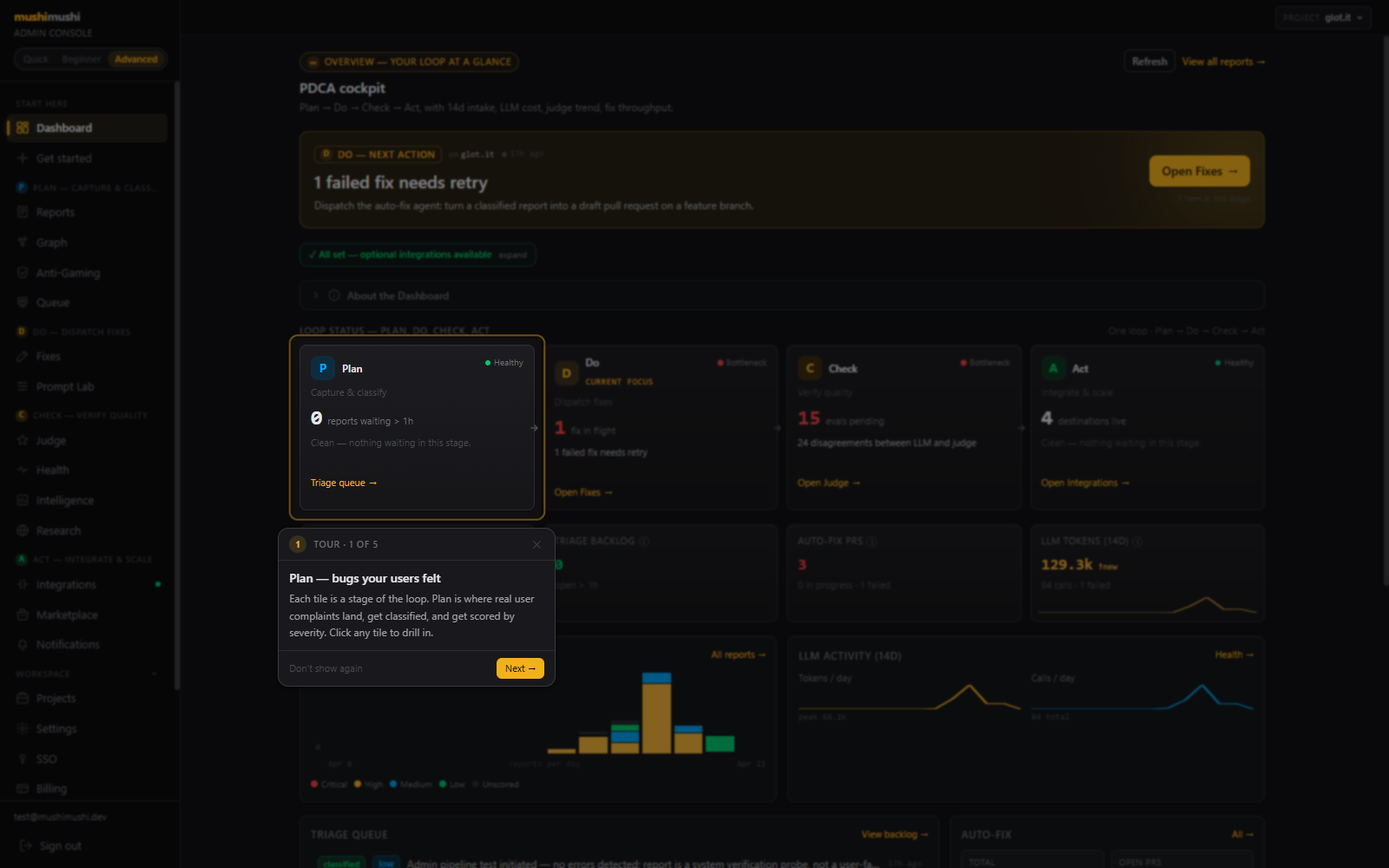
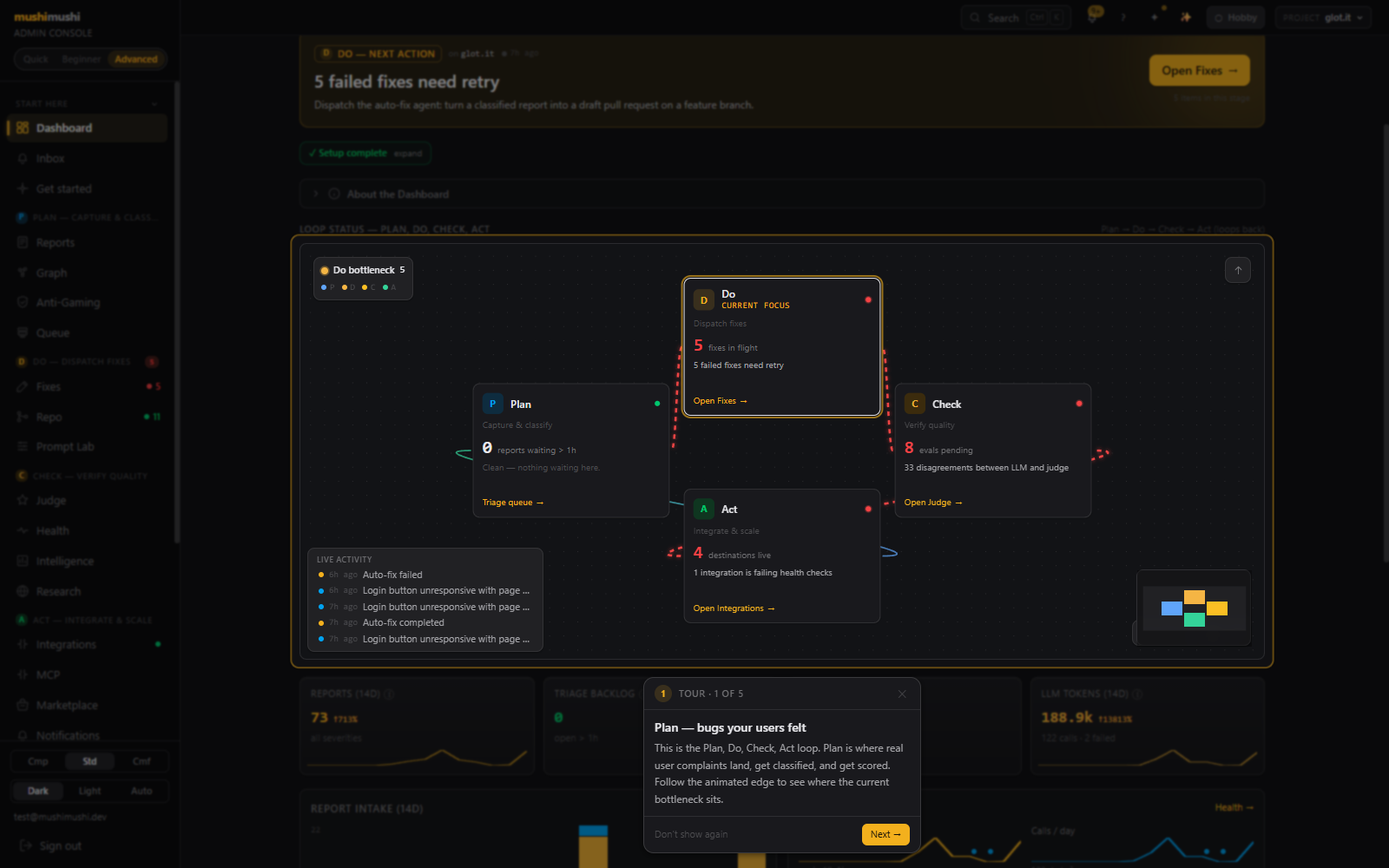
docs(readme): refresh full screenshot tour + animated GIF
- Refresh 16 existing tour screenshots from local dev to match today's UI
- Add 14 new tour cells covering every routed admin page (inbox, projects,
  settings, queue, query, research, sso, audit, storage, integrations,
  mcp, anti-gaming, notifications, billing) — tour grid is now exhaustive
  at 30 cells across 15 rows
- Add docs/screenshots/tour.gif: 14.7s multi-page guided tour
  (1280x800 @ 12fps, 0.5 MB) recorded via scripts/record-readme-tour.mjs
  through 8 main routes
- Place animated GIF above the static report-detail hero so first paint
  stays fast on slow connections, GIF streams in second
- Author concrete captions for the 14 new cells, lightly polish the
  existing 16 — every caption references a specific file, library, or
  visible UI element
- Admin remains dark-only by design — no light variants captured

Made-with: Cursor

diff --git a/README.md b/README.md
@@ -21,11 +21,17 @@ Sentry sees what your code throws. Mushi sees what your users *feel*.
 
 [Quick start](#quick-start) · [Live admin demo](https://kensaur.us/mushi-mushi/) · [Docs](./apps/docs) · [Self-hosting](./SELF_HOSTED.md) · [Architecture](#architecture)
 
+<a href="https://kensaur.us/mushi-mushi/" title="Open the live admin demo — animated guided tour">
+  <img src="./docs/screenshots/tour.gif" alt="Animated 8-page guided tour through the admin console — Dashboard PDCA cockpit (4-stage React Flow canvas with marching-ants on the bottleneck), Reports triage queue with severity stripes, Fixes auto-fix pipeline with per-attempt PDCA cards, Repo live branch graph with Supabase Realtime event stream, Judge scores with Decide/Act/Verify hero, Health LLM cost-per-call breakdown, Knowledge graph Sankey storyboard, Integrations health-checked Sentry/Langfuse/GitHub probes" width="100%" />
+</a>
+
+<sub>↑ animated 8-room guided tour · static deep-dive hero below · click to open the live admin</sub>
+
 <a href="https://kensaur.us/mushi-mushi/" title="Open the live admin demo">
   <img src="./docs/screenshots/report-detail-dark.png" alt="A real classified user-felt bug inside Mushi Mushi — 4-stamp PDCA receipt strip (Plan CLOSED 'Received &amp; classified (high)', Do CLOSED 'Fix dispatched — 1 file changed · PR #11', Check CLOSED 'judge evaluated — judge agreed (score 97%)', Act IN FLIGHT 'Awaiting merge / mark-as-fixed · Review &amp; merge'), live Branch &amp; PR timeline with Dispatch requested → Worker started → Agent started → Branch created mushi/fix-75dda4af-moaw66j7 → Commit 92c76aa → PR opened #11 → Fix completed → CI in progress, Langfuse trace deeplink, Status + Severity dropdowns, Sync destinations + Dispatch fix actions" width="100%" />
 </a>
 
-<sub>↑ click to open the live admin demo · the admin is dark-only by design</sub>
+<sub>↑ a real bug, end-to-end · the admin is dark-only by design</sub>
 
 </div>
 
@@ -71,23 +77,23 @@ A walk through the rooms inside. Click any panel to land on it in the live demo.
   </td>
   <td width="50%" valign="top">
     <a href="https://kensaur.us/mushi-mushi/"><img src="./docs/screenshots/first-run-tour-dark.png" alt="First-run interactive tour — spotlight cutout around the Plan tile, dark backdrop dimming everything else, coach-mark panel reading 'TOUR - 1 OF 5 · Plan — bugs your users felt · Each tile is a stage of the loop. Plan is where real user complaints land, get classified, and get scored by severity. Click any tile to drill in.' with a Next button and a Don't show again link." /></a>
-    <p align="center"><b>First-run tour</b> · <sub>custom 5-stop spotlight tour, no react-joyride dep so it inherits dark theme tokens. Stops that need real data silently skip until the first report lands.</sub></p>
+    <p align="center"><b>First-run tour</b> · <sub>custom 5-stop spotlight tour, no <code>react-joyride</code> dep so it inherits dark theme tokens. Stops that need real data silently skip until the first report lands.</sub></p>
   </td>
 </tr>
 <tr>
   <td width="50%" valign="top">
     <a href="https://kensaur.us/mushi-mushi/onboarding"><img src="./docs/screenshots/onboarding-dark.png" alt="Plug-n-play onboarding wizard with PDCA storyboard — four cards across the top (Plan capture, Do dispatch, Check verify, Act standardise) showing where the loop starts and ends, then a 'You're set up · 4/4 required · 100%' progress bar above a checklist of Done steps (project, API key, SDK install, first bug report, GitHub) and an Add API key CTA on the optional Anthropic step." /></a>
-    <p align="center"><b>Plug-n-play onboarding</b> · <sub> — the wizard now opens with a Plan→Do→Check→Act storyboard so you see the loop before the checklist. Required steps drive the green progress bar; optional steps stay tagged.</sub></p>
+    <p align="center"><b>Plug-n-play onboarding</b> · <sub>opens with a Plan→Do→Check→Act storyboard so you see the loop before the checklist. Required steps drive the green progress bar; optional steps stay tagged.</sub></p>
   </td>
   <td width="50%" valign="top">
     <a href="https://kensaur.us/mushi-mushi/judge"><img src="./docs/screenshots/judge-runresult-dark.png" alt="Judge scores page right after clicking 'Run judge now' — a green sticky ResultChip beside the button reads '✓ Dispatched 3 projects — refreshing in ~30s · now', the rest of the page shows latest week 65% / 24 evals KPIs, 12-week multi-line score trend, score distribution histogram, prompt leaderboard, and recent evaluations table with summaries instead of report hashes." /></a>
-    <p align="center"><b>Sticky run receipts</b> · <sub>every Run / Generate / Dispatch button now leaves a persistent <code>ResultChip</code> next to it, so the user never has to wonder "did it actually work?" after the toast fades.</sub></p>
+    <p align="center"><b>Sticky run receipts</b> · <sub>every Run / Generate / Dispatch button leaves a persistent <code>ResultChip</code> next to it, so the user never has to wonder "did it actually work?" after the toast fades.</sub></p>
   </td>
 </tr>
 <tr>
   <td width="50%" valign="top">
     <a href="https://kensaur.us/mushi-mushi/"><img src="./docs/screenshots/dashboard-dark.png" alt="Advanced-mode dashboard with PDCA cockpit — full 24-page sidebar grouped by Plan / Capture / Classify — Do / Dispatch fixes — Check / Verify quality — Act / Integrate &amp; scale, Next-Best-Action strip '2 failed fixes need retry · Open Fixes →', 4 Plan / Do / Check / Act tiles on a React Flow canvas with the Do node marked CURRENT FOCUS and a marching-ants failure ring on the Do bottleneck, Live Activity feed (Auto-fix completed, Login button click has no effect), and KPI strip (Reports 60 14d, Triage backlog 0, Auto-fix PRs 9, LLM tokens 149.8k)" /></a>
-    <p align="center"><b>Dashboard (Advanced)</b> · <sub>one living number per stage, bottleneck ring, Next-Best-Action strip, 14d severity-stacked histogram, LLM tokens & calls sparklines, Repo link right under Fixes.</sub></p>
+    <p align="center"><b>Dashboard (Advanced)</b> · <sub>one living number per stage, bottleneck ring, Next-Best-Action strip, 14d severity-stacked histogram, LLM tokens &amp; calls sparklines, Repo link right under Fixes.</sub></p>
   </td>
   <td width="50%" valign="top">
     <a href="https://kensaur.us/mushi-mushi/reports"><img src="./docs/screenshots/reports-dark.png" alt="Triage queue — 4 px severity stripe per row, 14d KPI strip (Critical 2, High 41, Medium 8, Low 7) with per-severity sparklines, Save view button, filter row (All 60, New 0, Queued 0, Triaged 0, Resolved 0, Dismissed 0, Critical 2, Major 0), search + Status / Category / Severity dropdowns, 60 real reports showing 'Login button click has no effect — no form submission, navigation, or console errors triggered' with status pills (Fixing 3/4, Classified 2/4), severity pills (High 78%, Critical 95%), and 'Dispatch fix →' primary action per row" /></a>
@@ -111,7 +117,7 @@ A walk through the rooms inside. Click any panel to land on it in the live demo.
   </td>
   <td width="50%" valign="top">
     <a href="https://kensaur.us/mushi-mushi/intelligence"><img src="./docs/screenshots/intelligence-dark.png" alt="Bug intelligence page with Decide/Act/Verify hero — Decide tile '1 digest on file · This week's digest is fresh. Check hotspots and category drift', Act tile 'All clear — nothing actionable here right now', Verify tile 'Latest report 4/17/2026 — 2026-04-06, Open evidence →', then an 'ALL CLEAR' banner, week-of 2026-04-06 digest card with prompt (claude-sonnet-4-6), Cross-customer benchmarking opt-in toggle (Sharing off), recent generation jobs table, and a weekly digest row with 'Download PDF' CTA" /></a>
-    <p align="center"><b>Intelligence</b> · <sub>the new 3-tile hero pattern in action — Decide surfaces the one-liner that matters, Act collapses to "All clear" when there's nothing to do, Verify deeplinks to the evidence. Every advanced page follows this shape.</sub></p>
+    <p align="center"><b>Intelligence</b> · <sub>the 3-tile hero pattern in action — Decide surfaces the one-liner that matters, Act collapses to "All clear" when there's nothing to do, Verify deeplinks to the evidence. Every advanced page follows this shape.</sub></p>
   </td>
 </tr>
 <tr>
@@ -121,13 +127,13 @@ A walk through the rooms inside. Click any panel to land on it in the live demo.
   </td>
   <td width="50%" valign="top">
     <a href="https://kensaur.us/mushi-mushi/prompt-lab"><img src="./docs/screenshots/prompt-lab-dark.png" alt="Prompt Lab — KPIs (2 active prompts / 2 candidates / no scored prompts yet / 49 of 52 reports labelled in eval dataset), Stage 1 fast-filter and Stage 2 classify version tables each with v1-baseline (Active, 100% traffic) and v2-experiment (Candidate, 0% traffic) rows, two pending fine-tuning jobs on claude-sonnet-4-6, and an empty Synthetic reports section with a Generate CTA" /></a>
-    <p align="center"><b>Prompt Lab</b> · <sub>Replaces Fine-Tuning. A/B traffic split between active and candidate prompts per stage, eval dataset preview, synthetic report generator, fine-tuning jobs queue.</sub></p>
+    <p align="center"><b>Prompt Lab</b> · <sub>replaces Fine-Tuning. A/B traffic split between active and candidate prompts per stage, eval dataset preview, synthetic report generator, fine-tuning jobs queue.</sub></p>
   </td>
 </tr>
 <tr>
   <td width="50%" valign="top">
     <a href="https://kensaur.us/mushi-mushi/graph"><img src="./docs/screenshots/graph-dark.png" alt="Knowledge graph in Sankey storyboard mode — two columns labelled COMPONENT and PAGE with bezier links showing which components co-occur with which pages; thicker link = more bugs touching both; quick-view chips for All / Regressions / Fragile / Fix coverage; Graph backend status (SQL only / AGE not installed) and Bug ontology editor below" /></a>
-    <p align="center"><b>Knowledge graph</b> · <sub>Auto-switches to Sankey storyboard under 12 nodes; full React Flow canvas above. Apache AGE backed when installed, falls back to plain SQL adjacency otherwise.</sub></p>
+    <p align="center"><b>Knowledge graph</b> · <sub>auto-switches to Sankey storyboard under 12 nodes; full React Flow canvas above. Apache AGE backed when installed, falls back to plain SQL adjacency otherwise.</sub></p>
   </td>
   <td width="50%" valign="top">
     <a href="https://kensaur.us/mushi-mushi/compliance"><img src="./docs/screenshots/compliance-dark.png" alt="Compliance dashboard — Refresh evidence + Export PDF actions top-right, Latest control evidence table with rows for A1.2 (Availability snapshot, WARN), CC6.1 (RLS coverage, PASS), CC6.7 (Data retention windows, WARN — default_used true), CC7.2 (Operational monitoring · audit_log volume 7d, mixed PASS/WARN), CC8.1 (DSAR fulfilment >30 days, PASS) with JSON payloads inline, then Data residency table with US/EU/JP/SELF radio per project" /></a>
@@ -137,7 +143,77 @@ A walk through the rooms inside. Click any panel to land on it in the live demo.
 <tr>
   <td width="50%" valign="top">
     <a href="https://kensaur.us/mushi-mushi/marketplace"><img src="./docs/screenshots/marketplace-dark.png" alt="Plugin marketplace — Available plugins (4/4) showing PagerDuty Escalation (Official, Incident response, report.classified + sla.breached events), Linear Sync (Project management, report.created + report.classified + report.status_changed), Zapier Bridge (Integration, generic webhook fan-out), and Sentry Mirror (Observability, report.classified + fix.proposed + fix.applied), each with Source link and Install button. Installed section is empty with 'No plugins installed' empty state. Recent deliveries (0/0) below" /></a>
-    <p align="center"><b>Marketplace</b> · <sub>D1 — toggleable extension layer for the loop. Each plugin declares the events it subscribes to and ships with HMAC-signed webhooks; deliveries are logged with HTTP status + first 512 chars of the response.</sub></p>
+    <p align="center"><b>Marketplace</b> · <sub>toggleable extension layer for the loop. Each plugin declares the events it subscribes to and ships with HMAC-signed webhooks; deliveries are logged with HTTP status + first 512 chars of the response.</sub></p>
+  </td>
+  <td width="50%" valign="top">
+    <a href="https://kensaur.us/mushi-mushi/inbox"><img src="./docs/screenshots/inbox-dark.png" alt="Action inbox grouped by PDCA stage — top KPI strip with 4 PDCA cards (Plan 'Triage caught up', Do '5 failed fix dispatch needs attention', Check 'Judge batch is fresh', Act '11 PRs awaiting review'), then sections per stage: 'Plan — classify + triage' with a 'Reports queue · 2 critical reports in the last 14 days' yellow card and 'Open critical queue →' CTA, 'Do — dispatch + land fixes' with '5 fix attempts failed · Review the failure, fix the agent prompt, or retry manually' and 'Open failed fixes →' CTA, 'Check — verify quality' with 'Trigger a fresh judge batch · Last evaluation ran 49h ago' and 'Run judge batch →' CTA, 'Act — connections + config' below" /></a>
+    <p align="center"><b>Action inbox</b> · <sub>open actions across the PDCA loop, grouped by stage with one yellow CTA per group (<code>Open critical queue → / Open failed fixes → / Run judge batch →</code>). Empty groups skip — the page only renders what's actually waiting on you.</sub></p>
+  </td>
+</tr>
+<tr>
+  <td width="50%" valign="top">
+    <a href="https://kensaur.us/mushi-mushi/anti-gaming"><img src="./docs/screenshots/anti-gaming-dark.png" alt="Anti-gaming dashboard — Decide/Act/Verify hero (Decide tile 'Flagged devices need review · 4 flagged · 0 cross-account', Act tile 'All clear', Verify tile 'Latest enforcement activity · 53 recent events · 4 collapsed'), KPI strip (Tracked devices 4 -flat vs 7d avg, Flagged 4 ↑30 vs 7d avg, Cross-account 0 ↑30 vs 7d avg, Total reports 65), Flagged devices table with rows per fingerprint (fp:1f0b09790709b8a0..., 14 tokens · 1 IP · 14 reports, 'Multi-account: 4 reporter tokens from same device', First seen 4/23/2026), each with Details / Unflag actions, search input top-right" /></a>
+    <p align="center"><b>Anti-gaming</b> · <sub>per-device fingerprint tracker that throttles bad-faith reporters and surfaces multi-account abuse (<code>4 reporter tokens from same device</code>). Operator gets <code>Details / Unflag</code> per row; every enforcement action lands in the audit trail.</sub></p>
+  </td>
+  <td width="50%" valign="top">
+    <a href="https://kensaur.us/mushi-mushi/queue"><img src="./docs/screenshots/queue-dark.png" alt="Processing queue (DLQ) — Decide/Act/Verify hero ('Queue is healthy · 0 running · 0 pending · No stuck work, no dead letters', 'All clear', 'Latest throughput snapshot 2026-04-23 · 20 completed · 0 failed'), top-right batch ops (completed dropdown, All Stage dropdown, Retry page (25), Flush queued, Recover stranded), KPI cards (Pending 0, Running 0, Completed 67 ↑2853%, Failed 0, Dead letter 0), 14d daily throughput histogram (created/completed/failed colour-coded), per-stage backlog bar (stage1 67), and per-job rows showing 'stage1 - Completed · 6/3 attempts · user-story:1776924091355 — the login button does nothing and the page flickers · Created 7 hours ago - last attempt 7 hours ago' with a Retry button" /></a>
+    <p align="center"><b>Processing queue (DLQ)</b> · <sub><code>worker_jobs</code> viewer with 14d throughput histogram, per-stage backlog bar, and per-job <code>Retry</code> action. Top-right batch ops — <code>Retry page (25) / Flush queued / Recover stranded</code> — operate on the visible filter so you never accidentally retry the whole table.</sub></p>
+  </td>
+</tr>
+<tr>
+  <td width="50%" valign="top">
+    <a href="https://kensaur.us/mushi-mushi/query"><img src="./docs/screenshots/query-dark.png" alt="Ask Your Data — page heading 'Ask Your Data · Ad-hoc natural-language questions against your bug data. Read-only, sandboxed, and cited.', Decide/Act/Verify hero ('Saved queries ready · 1 saved · 1 recent', 'All clear', 'Latest activity · Last run 76h ago · Open evidence → · New query'), 'Ask a question about your...' input with Ask button, 6 quick-prompt chips (How many critical bugs were reported this week? · Which component has the most bugs? · Show reports that might be regressions · Top 5 components by report count this month · List dismissed reports with low reputation reporters · Average judge score by week (last 4 weeks)), SQL HINTS panel with 5 hint rows, Saved (1) + History sidebar on the right" /></a>
+    <p align="center"><b>Ask Your Data</b> · <sub>ad-hoc natural-language SQL over the bug data — read-only Postgres, pre-canned chip prompts (<code>Top 5 components by report count this month</code>, <code>Reports with screenshots but no console logs in the last 7 days</code>), Saved queries + History sidebar, every successful answer logged to the audit trail.</sub></p>
+  </td>
+  <td width="50%" valign="top">
+    <a href="https://kensaur.us/mushi-mushi/research"><img src="./docs/screenshots/research-dark.png" alt="Research notes page — 'CHECK' stage chip, heading 'Research · Long-form notes from QA and product research. Pin findings here so the next loop iteration starts smarter.', About Research collapsed accordion, SEARCH section with 'error signature, library na...' input + Search button, 5 chip topics (react query 5 cache invalidation breaking change · supabase auth getUser 401 with valid session · vite 8 esbuild externalization regression · pgvector cosine distance vs inner product accuracy · cloudflare workers fetch ECONNRESET intermittent), RECENT SESSIONS card 'No sessions yet — your first search will land here.'" /></a>
+    <p align="center"><b>Research</b> · <sub>pin QA + product findings here so the next loop iteration starts smarter. Pre-seeded chip topics (<code>pgvector cosine distance vs inner product accuracy</code>, <code>vite 8 esbuild externalization regression</code>) hint at the kind of low-noise long-form notes the loop benefits from.</sub></p>
+  </td>
+</tr>
+<tr>
+  <td width="50%" valign="top">
+    <a href="https://kensaur.us/mushi-mushi/mcp"><img src="./docs/screenshots/mcp-dark.png" alt="MCP — Model Context Protocol page for the glot.it project — heading 'MCP — Model Context Protocol  glot.it · Connect Cursor, Claude Desktop, or any MCP-aware agent to this project's live triage queue. Agents read reports, dispatch fixes, and log PRs without copy-pasting IDs into chat.', 'Mint an API key' button top-right, '60-second 3-step bootstrap' card (1. Mint an API key with mcpread / mcpwrite scope chips · 2. Paste the snippet into your IDE · 3. Ask the agent to 'list mushi tools' · should see all 13 tools), 'Install snippet' card with .cursor/mcp.json / .env.local toggle and a JSON code block pre-filled with mushiServers · mushi-glot-it · npx mushi-mcp@latest · MUSHI_API_ENDPOINT https://api.mushimushi.dev · MUSHI_API_KEY paste-your-key-here · MUSHI_PROJECT_ID 542b34e0-019e-41fe-b900-7b637717b986" /></a>
+    <p align="center"><b>MCP — Model Context Protocol</b> · <sub>per-project <code>.cursor/mcp.json</code> snippet pre-filled with the active <code>MUSHI_PROJECT_ID</code>, 13-tool catalog mirror (<code>apps/admin/src/lib/mcpCatalog.ts</code>, kept in sync with <code>packages/mcp/src/catalog.ts</code> by the <code>check-catalog-sync</code> pre-commit guard), 60s 3-step agent bootstrap.</sub></p>
+  </td>
+  <td width="50%" valign="top">
+    <a href="https://kensaur.us/mushi-mushi/integrations"><img src="./docs/screenshots/integrations-dark.png" alt="Integrations page — 'ACT' stage chip, heading 'Integrations · Sentry / Slack / GitHub routing + per-platform probe history.', CORE PLATFORM section with three cards: Sentry (Healthy pill · 'Pulls Seer root-cause analysis into your reports and lets the LLM cross-reference production errors with user feedback. Wire the webhook to mirror Sentry user feedback into Mushi.' · Last probe 3 days ago 894ms HTTP 200 · sparkline · Test / Edit), Langfuse (Healthy · 'Every LLM call (Stage 1 classify, Stage 2 vision, fix-worker) emits a trace. Click any trace from a report or fix attempt to see the exact prompt + response + token cost.' · 506ms HTTP 200), GitHub (Healthy · 770ms HTTP 200 sparkline). Then 'Codebase indexing On / Reconfigure' card with Repo https://github.com/kensaurus/glot.it, Branch main, Indexed files 401, Last sweep 3 hours ago. ROUTING DESTINATIONS below with Jira card (Unknown pill, Connect button, severity-to-priority mapping bullets)" /></a>
+    <p align="center"><b>Integrations</b> · <sub><code>Sentry / Langfuse / GitHub</code> health-checked probes with last-probe latency + HTTP code + sparkline, codebase indexing status (401 files swept 3h ago, fed back into the RAG context the auto-fix agent reads), routing-destination CRUD (Jira / PagerDuty / Linear).</sub></p>
+  </td>
+</tr>
+<tr>
+  <td width="50%" valign="top">
+    <a href="https://kensaur.us/mushi-mushi/notifications"><img src="./docs/screenshots/notifications-dark.png" alt="Reporter Notifications page — 'ACT' stage chip, heading 'Reporter Notifications · Outbound messages sent to the people who reported the bugs — keeps the loop transparent.', top-right filters (Show All dropdown, All Type dropdown, 'Mark all read (77)' button), table of 'classified' notification rows each with timestamp, 'unread' state, 'tok:e7bafe2b...' reporter token, 'report:5b0027a1...' / 'report:7fe4cd7d...' / 'report:15e7ce7e...' report ID link, and per-row 'Show payload' + 'Mark read' actions" /></a>
+    <p align="center"><b>Reporter notifications</b> · <sub>outbound messages sent to the people who reported each bug (e.g. <code>classified — report:5b0027a1...</code> paired with <code>tok:e7bafe2b...</code>). <code>Show payload</code> reveals the exact JSON the SDK delivered. Keeps the loop transparent — every reporter knows what happened to their bug.</sub></p>
+  </td>
+  <td width="50%" valign="top">
+    <a href="https://kensaur.us/mushi-mushi/settings"><img src="./docs/screenshots/settings-dark.png" alt="Settings page — heading 'Settings · Project keys, BYOK vault, developer toggles.', About Settings collapsed accordion, 5-tab nav (General · LLM keys (BYOK) · Firecrawl · Health & test · Dev tools), General tab visible with NOTIFICATIONS card (Slack Webhook URL input 'https://hooks.slack.com/services/...'), SENTRY INTEGRATION card (Sentry DSN pre-filled, Webhook Secret input, 'Consume Sentry User Feedback as Mushi reports' checkbox checked), LLM PIPELINE card (Stage 2 Model dropdown 'Claude Sonnet 4.6 — recommended default', Stage 1 Confidence Threshold slider 0.85), DEDUPLICATION card (Similarity Threshold slider 0.82), 'No changes' button at the bottom" /></a>
+    <p align="center"><b>Workspace settings</b> · <sub>5 tabs (General · BYOK · Firecrawl · Health &amp; test · Dev tools) covering Slack webhook, Sentry DSN, Stage-2 model picker, Stage-1 confidence threshold, dedup similarity threshold — every knob the LLM pipeline reads at runtime, with a <code>No changes</code> button that arms only when something diffs.</sub></p>
+  </td>
+</tr>
+<tr>
+  <td width="50%" valign="top">
+    <a href="https://kensaur.us/mushi-mushi/sso"><img src="./docs/screenshots/sso-dark.png" alt="SSO Configuration page — heading 'SSO Configuration · Configure SAML or OIDC for your team. JIT-provisioning on first login is enabled by default.', About SSO collapsed accordion, ADD IDENTITY PROVIDER card with SAML 2.0 dropdown, Provider name input (e.g. Okta), Metadata URL (required), Entity ID (optional, parsed from metadata), Email domains (comma-separated, e.g. acme.com,acme.io), 'Add Provider' yellow button, helper text 'On submit, Mushi calls the Supabase Auth Admin API to register the SAML provider. We surface the resulting ACS URL + Entity ID below for you to paste into your IdP.', empty state 'No identity providers configured' below" /></a>
+    <p align="center"><b>SSO config</b> · <sub>SAML 2.0 + OIDC form, calls the Supabase Auth Admin API on submit, surfaces the resulting ACS URL + Entity ID below for you to paste into your IdP. JIT provisioning on first login is the default. OIDC intentionally returns 501 — see <a href="#honest-status--what-works-whats-still-partial">Honest status</a>.</sub></p>
+  </td>
+  <td width="50%" valign="top">
+    <a href="https://kensaur.us/mushi-mushi/audit"><img src="./docs/screenshots/audit-dark.png" alt="Audit Log page — heading 'Audit Log · Append-only history of every mutation made by the platform. Filter by actor, action, or resource.', 'Export CSV (13)' button top-right, Decide/Act/Verify hero ('Audit trail clean · 13 events · Every mutation in scope is accounted for. Export evidence for your next review', 'All clear', 'Last event - settings.updated · eb0c15cc-4139-490b-a335-35b3d87428df · 2026-04-2... · Open evidence → · Open compliance'), filter row (All Action / All Resource / Actor type / When / Actor email / Search action / resource), table with columns Time / Action / Actor / Resource showing rows like '4/23/2026, 11:09:47 AM · settings.updated · eb0c15cc-4139... · byok:anthropic', '4/20/2026, 2:48:09 PM · compliance.soc2.evidence_refreshed · ... · soc2_evidence', 'compliance.dsar.created · data_subject_requests:cc1cd0f', several 'fine_tuning' and 'integration_platform' rows" /></a>
+    <p align="center"><b>Audit log</b> · <sub>append-only history of every mutation, filterable by actor / action / resource / time. Each row pairs a <code>settings.updated</code> / <code>compliance.dsar.created</code> action with an actor UUID and resource handle so you can trace any change to a tenant. <code>Export CSV</code> for the next SOC 2 review.</sub></p>
+  </td>
+</tr>
+<tr>
+  <td width="50%" valign="top">
+    <a href="https://kensaur.us/mushi-mushi/storage"><img src="./docs/screenshots/storage-dark.png" alt="Storage page — heading 'Storage · Per-project bucket usage and retention policy for screenshots, logs, and uploaded artefacts.', Decide/Act/Verify hero ('No buckets configured · Connect a bucket to retain screenshots + logs beyond the default rolling window.', 'All clear', 'Latest probe snapshot · No probes run yet'), PER-PROJECT USAGE table (PROJECT / OBJECTS / LAST WRITE columns, glot.it 0 -, Test Project 0 -, Mushi Test Project 0 -), then a per-project bucket form for glot.it (542b34e0-019e-41fe-b900-7b637717b986) with 'Using cluster default — save to override' yellow pill, Provider dropdown 'Supabase Storage (default)', Bucket input 'mushi-public', Region 'us-east-1', Endpoint placeholder 'https://s3.us-east-1.amazonaws.com', Path prefix 'mushi-mushi/', Signed URL TTL (seconds) 3600, Access key Vault ref + Secret key Vault ref inputs" /></a>
+    <p align="center"><b>BYO storage</b> · <sub>per-project bucket form (Supabase / S3 / R2), region pinning, presigned-URL TTL editor, vault-ref'd access keys (never plaintext). Per-project usage table at the top so you spot a project burning through storage before the bill arrives.</sub></p>
+  </td>
+  <td width="50%" valign="top">
+    <a href="https://kensaur.us/mushi-mushi/projects"><img src="./docs/screenshots/projects-dark.png" alt="Projects page — heading 'Projects · 3 projects owned by you', About Projects collapsed accordion, 'New project name (e.g. Acme iOS app)' input + 'Create project' yellow button, then 3 per-project cards: glot.it (Active pill, glot-it slug, Created 4/17/2026, last report 6h ago, '65 reports · 3 active keys · 1 member', yellow 'DO 5 fixes need retry' chip, '4 keys (3 active)' expander) with toolbar (Reports / Integrations / Settings / Send test report / SDK ingest dropdown / Mint key); Test Project (test-project, Created 4/16/2026, last report 6d ago, 5 reports · 2 active keys · 1 member); Mushi Test Project (mushi-test, 3 reports · 1 active key · 0 members) — each with Set active / Reports / Integrations / Settings / Send test report / SDK ingest / Mint key" /></a>
+    <p align="center"><b>Multi-project workspace</b> · <sub>per-project cards with active-key count, reports count, member count, plus inline CTAs to mint a fresh key, send a test report, or open project-scoped Integrations / Settings. The active project drives the project filter on every other page.</sub></p>
+  </td>
+</tr>
+<tr>
+  <td width="50%" valign="top">
+    <a href="https://kensaur.us/mushi-mushi/billing"><img src="./docs/screenshots/billing-dark.png" alt="Billing page — heading 'Billing · Plan, usage, invoices, and quota — everything you need to keep the loop running on your terms.', 'Free quota: 1,000 reports / mo' top-right, About Billing collapsed accordion, 'Plans at a glance · Billed monthly · cancel any time · prices in USD · YOUR PLAN IS HIGHLIGHTED' card with 4-column comparison table: Hobby (Your plan, Free), Starter (Most popular, $19/mo), Pro ($99/mo), Enterprise (Talk to us, Email sales →). Feature rows include USAGE: Reports/month (1,000 / 10,000 / 50,000 / Unlimited), Overage (- / $0.0025 per report / $0.0020 / -), Report retention (7 / 30 / 90 / 365 days), Admin seats (3 / Unlimited / Unlimited / Unlimited). PLATFORM rows: Bring your own LLM key, Plugin marketplace, Weekly intelligence reports, Self-hosted option each with checkmarks per tier" /></a>
+    <p align="center"><b>Billing</b> · <sub>plan comparison (Hobby Free / Starter $19 / Pro $99 / Enterprise), per-plan reports/month + overage cents/report + retention days + admin seats, Stripe-metered LLM $ per day below the fold, <code>Need help?</code> form wired to <code>/v1/support/contact</code> (rate-limited to 5 tickets/hour/user) so paying customers jump the queue.</sub></p>
   </td>
   <td width="50%" valign="top">
     <a href="https://kensaur.us/mushi-mushi/"><img src="./docs/screenshots/report-detail-dark.png" alt="Report detail page for a High-severity login-button bug — 4-stamp PDCA receipt (Plan CLOSED, Do CLOSED 'Fix dispatched — 1 file changed · PR #11', Check CLOSED 'judge agreed score 97%', Act IN FLIGHT 'Awaiting merge'), live Branch &amp; PR timeline with every step from Dispatch requested through CI in progress, branch name + CI status + PR link + commit SHA + changed files summary cards, Langfuse trace deeplink, Status / Severity dropdowns, Sync destinations + Dispatch fix actions" /></a>
